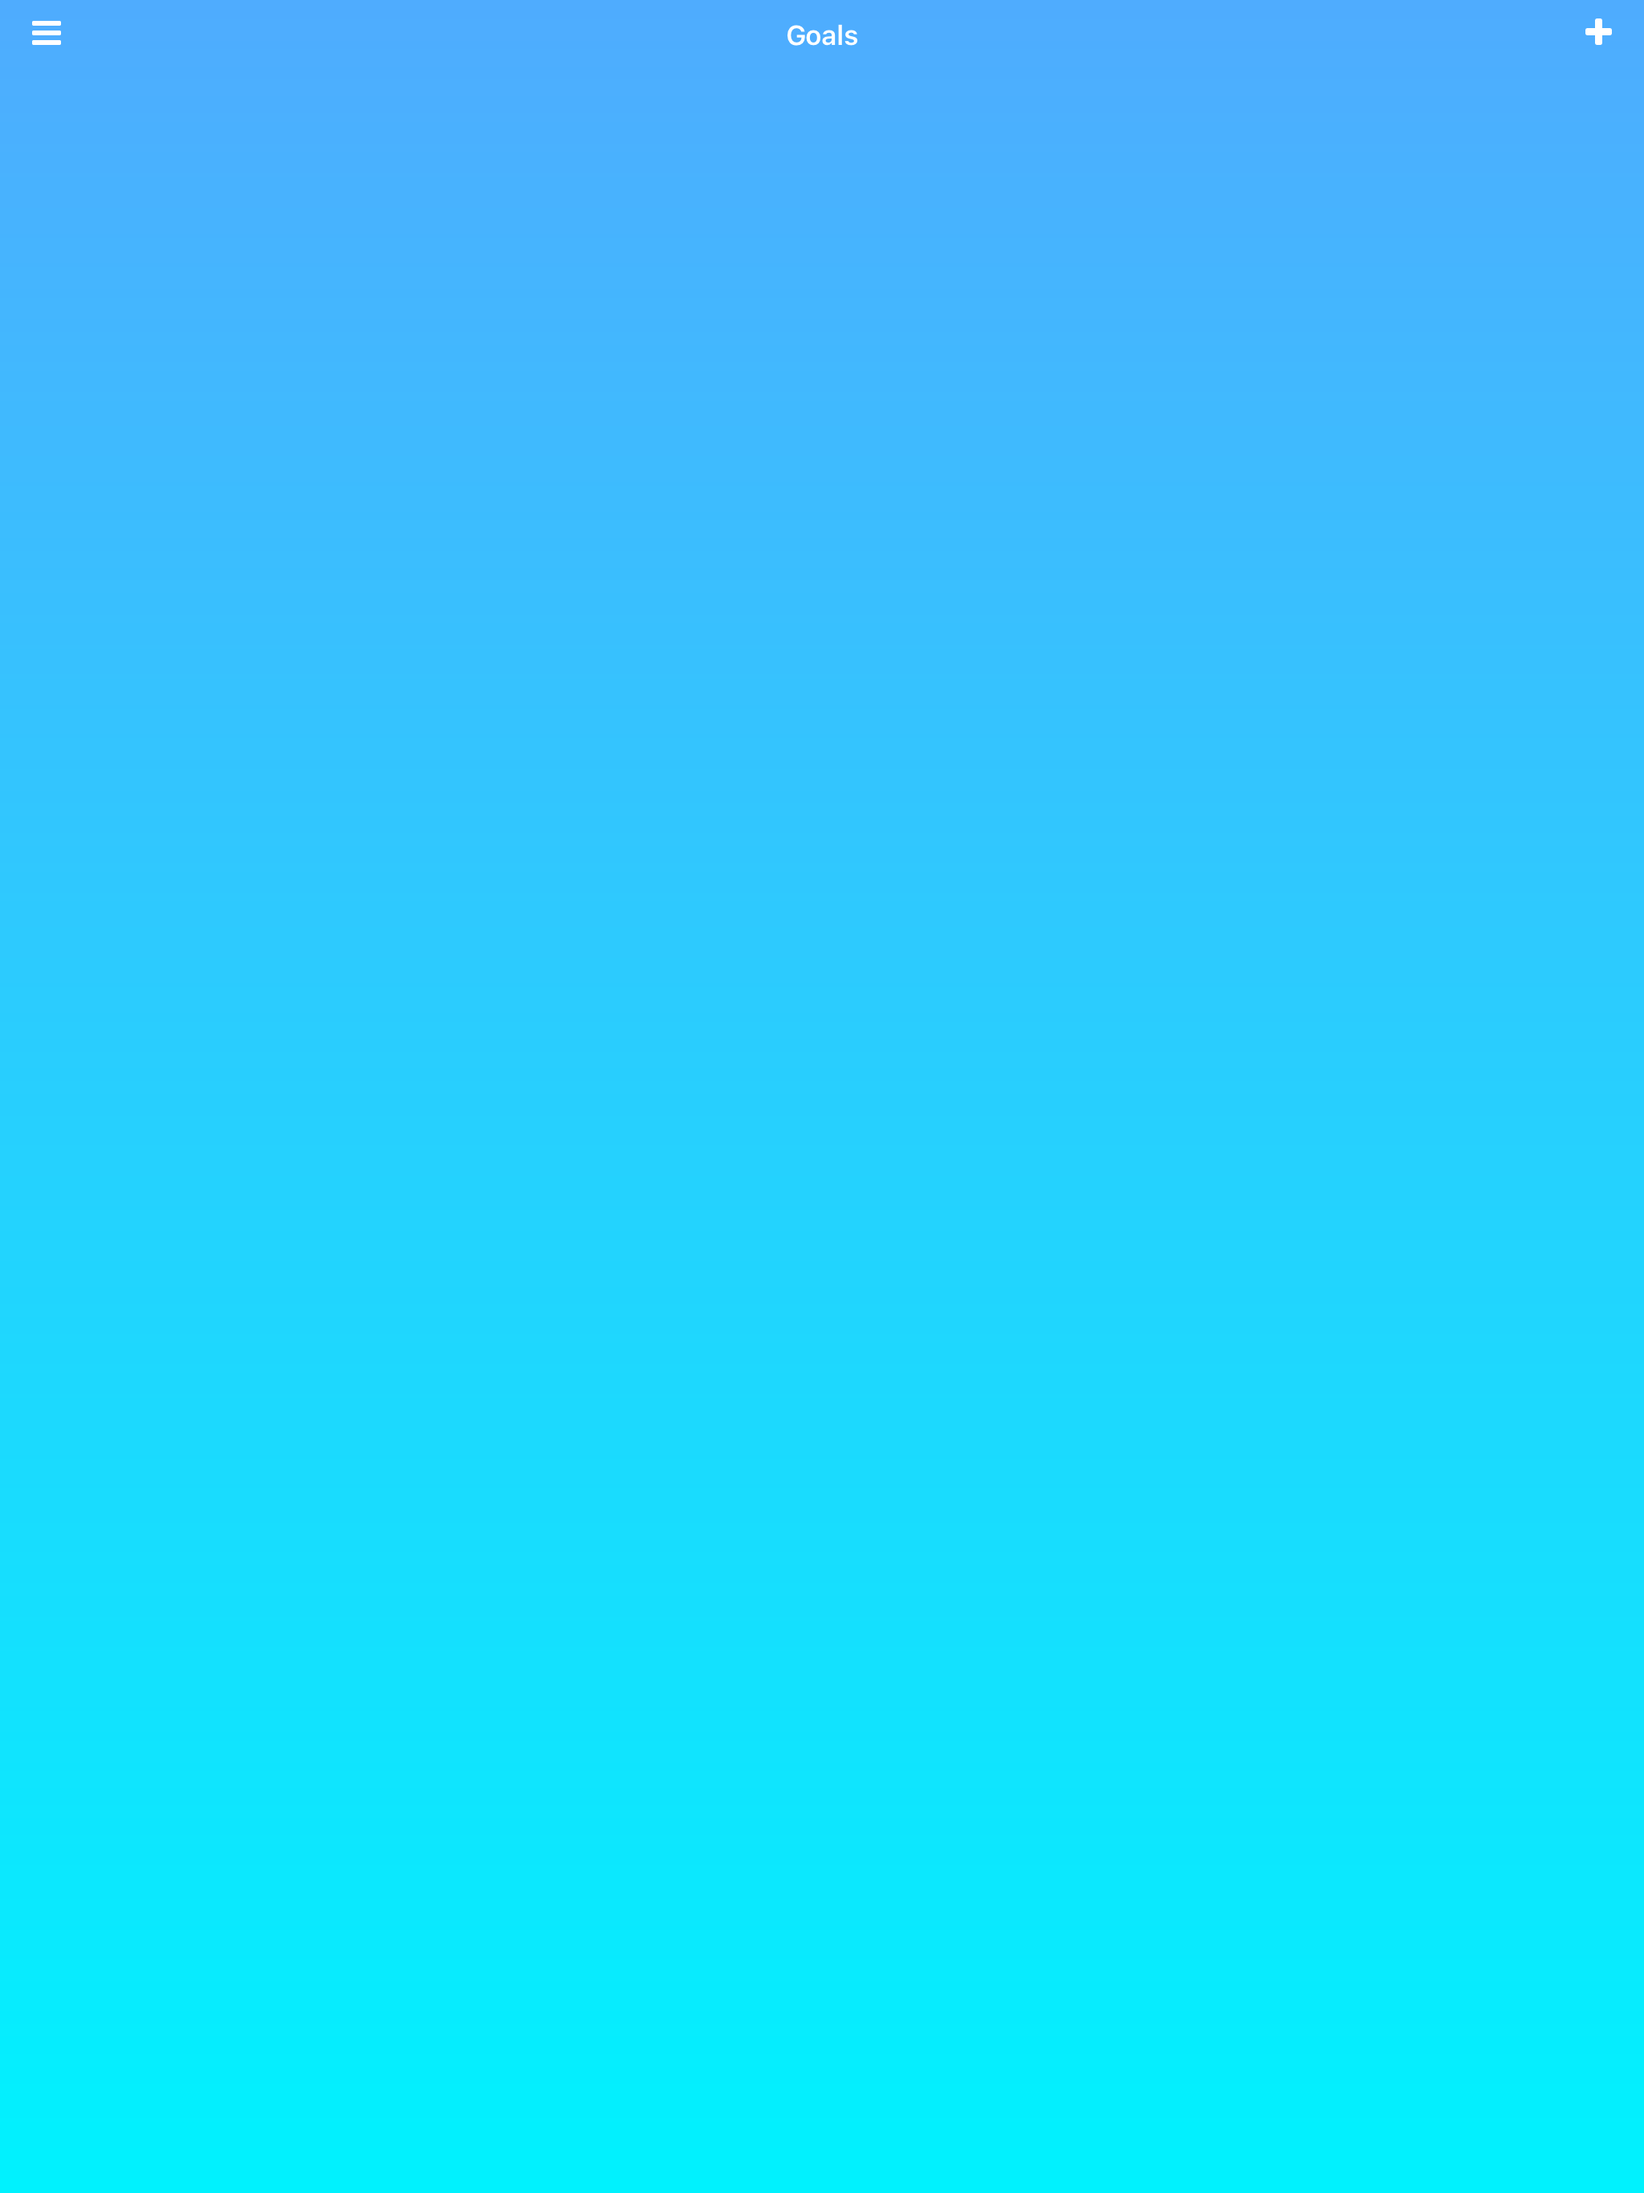
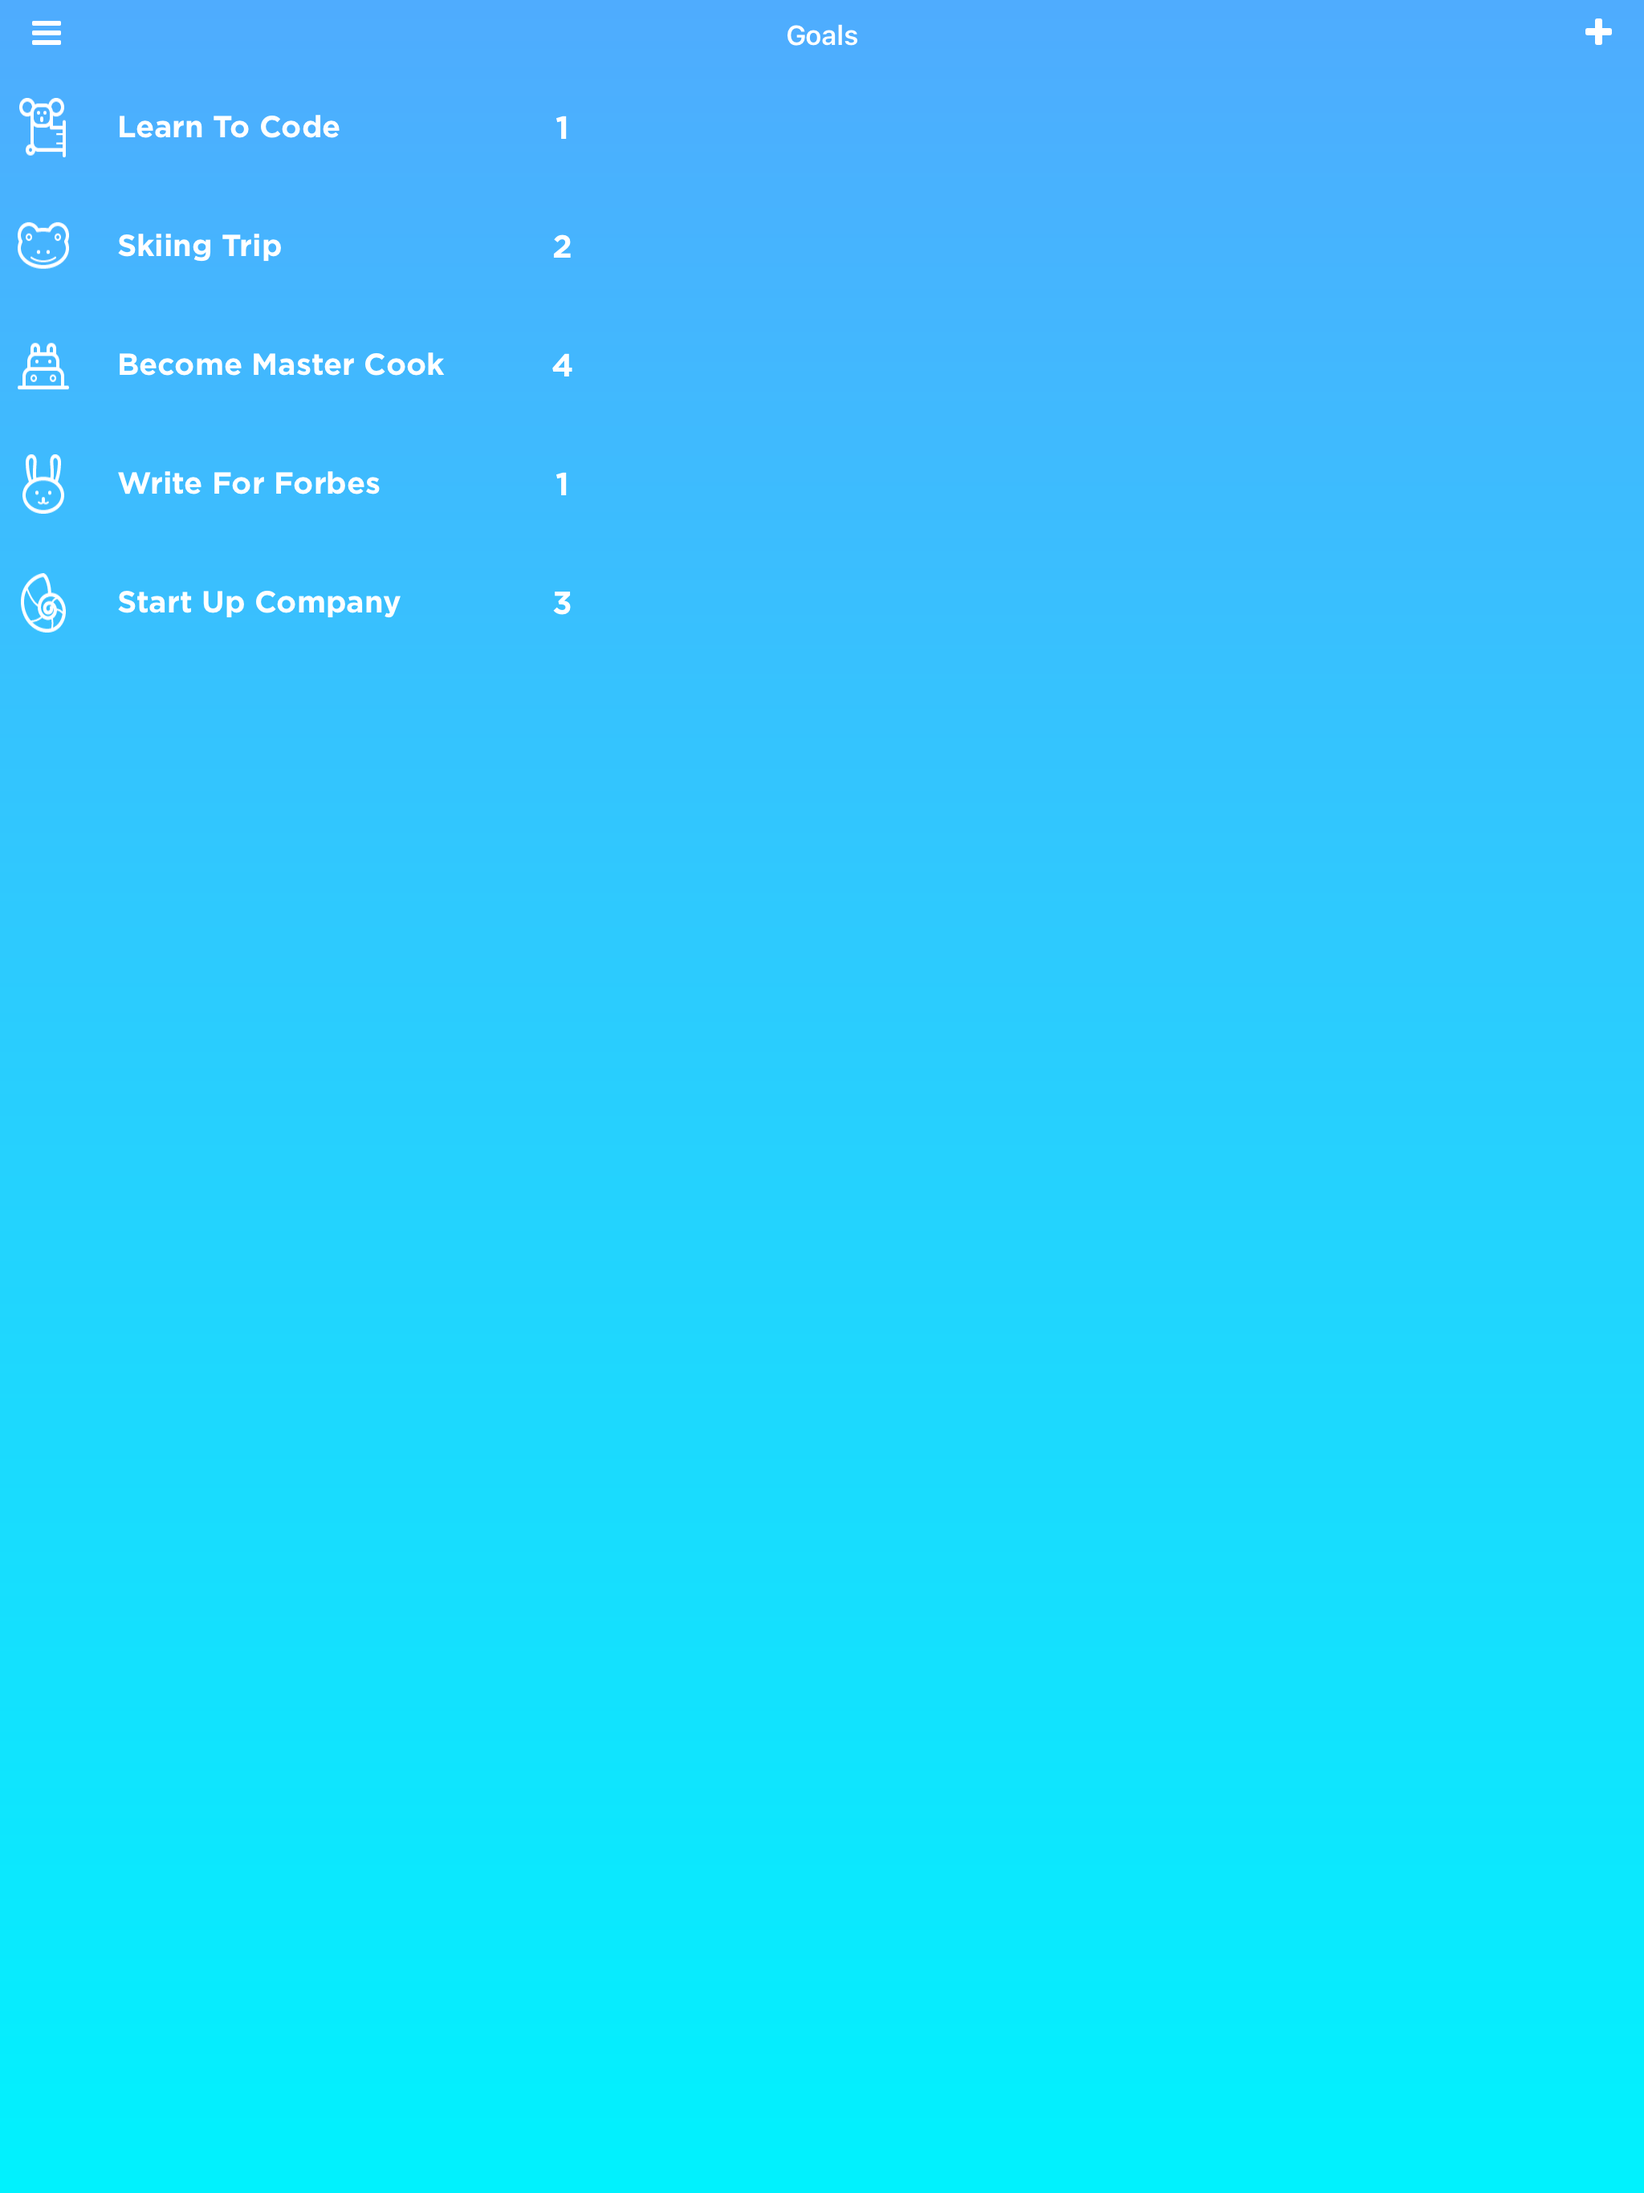
iPad screenshots

diff --git a/screenshots/screenshots.html b/screenshots/screenshots.html
@@ -70,23 +70,45 @@
     <table>
       <tr>
         <th colspan="3">
+          <span class="deviceName">iPad Pro (12.9-inch)</span>
+        </th>
+      </tr>
+      <tr>
+        <td>
+          <a href="./en-US/iPad Pro (12.9-inch)-Goals.png" target="_blank" class="screenshotLink">
+            <img class="screenshot" src="./en-US/iPad Pro (12.9-inch)-Goals.png" style="width: 100%;" alt="en-US iPad Pro (12.9-inch)" data-counter="1">
+          </a>
+        </td>
+        <td>
+          <a href="./en-US/iPad Pro (12.9-inch)-Task.png" target="_blank" class="screenshotLink">
+            <img class="screenshot" src="./en-US/iPad Pro (12.9-inch)-Task.png" style="width: 100%;" alt="en-US iPad Pro (12.9-inch)" data-counter="2">
+          </a>
+        </td>
+        <td>
+          <a href="./en-US/iPad Pro (12.9-inch)-Tasks.png" target="_blank" class="screenshotLink">
+            <img class="screenshot" src="./en-US/iPad Pro (12.9-inch)-Tasks.png" style="width: 100%;" alt="en-US iPad Pro (12.9-inch)" data-counter="3">
+          </a>
+        </td>
+      </tr>
+      <tr>
+        <th colspan="3">
           <span class="deviceName">iPhone 8</span>
         </th>
       </tr>
       <tr>
         <td>
           <a href="./en-US/iPhone 8-Goals.png" target="_blank" class="screenshotLink">
-            <img class="screenshot" src="./en-US/iPhone 8-Goals.png" style="width: 100%;" alt="en-US iPhone 8" data-counter="1">
+            <img class="screenshot" src="./en-US/iPhone 8-Goals.png" style="width: 100%;" alt="en-US iPhone 8" data-counter="4">
           </a>
         </td>
         <td>
           <a href="./en-US/iPhone 8-Task.png" target="_blank" class="screenshotLink">
-            <img class="screenshot" src="./en-US/iPhone 8-Task.png" style="width: 100%;" alt="en-US iPhone 8" data-counter="2">
+            <img class="screenshot" src="./en-US/iPhone 8-Task.png" style="width: 100%;" alt="en-US iPhone 8" data-counter="5">
           </a>
         </td>
         <td>
           <a href="./en-US/iPhone 8-Tasks.png" target="_blank" class="screenshotLink">
-            <img class="screenshot" src="./en-US/iPhone 8-Tasks.png" style="width: 100%;" alt="en-US iPhone 8" data-counter="3">
+            <img class="screenshot" src="./en-US/iPhone 8-Tasks.png" style="width: 100%;" alt="en-US iPhone 8" data-counter="6">
           </a>
         </td>
       </tr>

diff --git a/Tasky/Goals.swift b/Tasky/Goals.swift
@@ -26,9 +26,10 @@ class Goals: UIViewController, UITableViewDataSource, UITableViewDelegate {
 		goals = Utils.fetchCoreDataObject(Constants.CoreData.GOAL, predicate: "")
 		goals = goals.reversed() // newest first
 		
-		//if goals.count == 0 {
-			//goals = Utils.createDemoData()
-		//}
+		// Demo data
+//		if goals.count == 0 {
+//			goals = Utils.createDemoData()
+//		}
 		
 		tableView.reloadData()
 		
